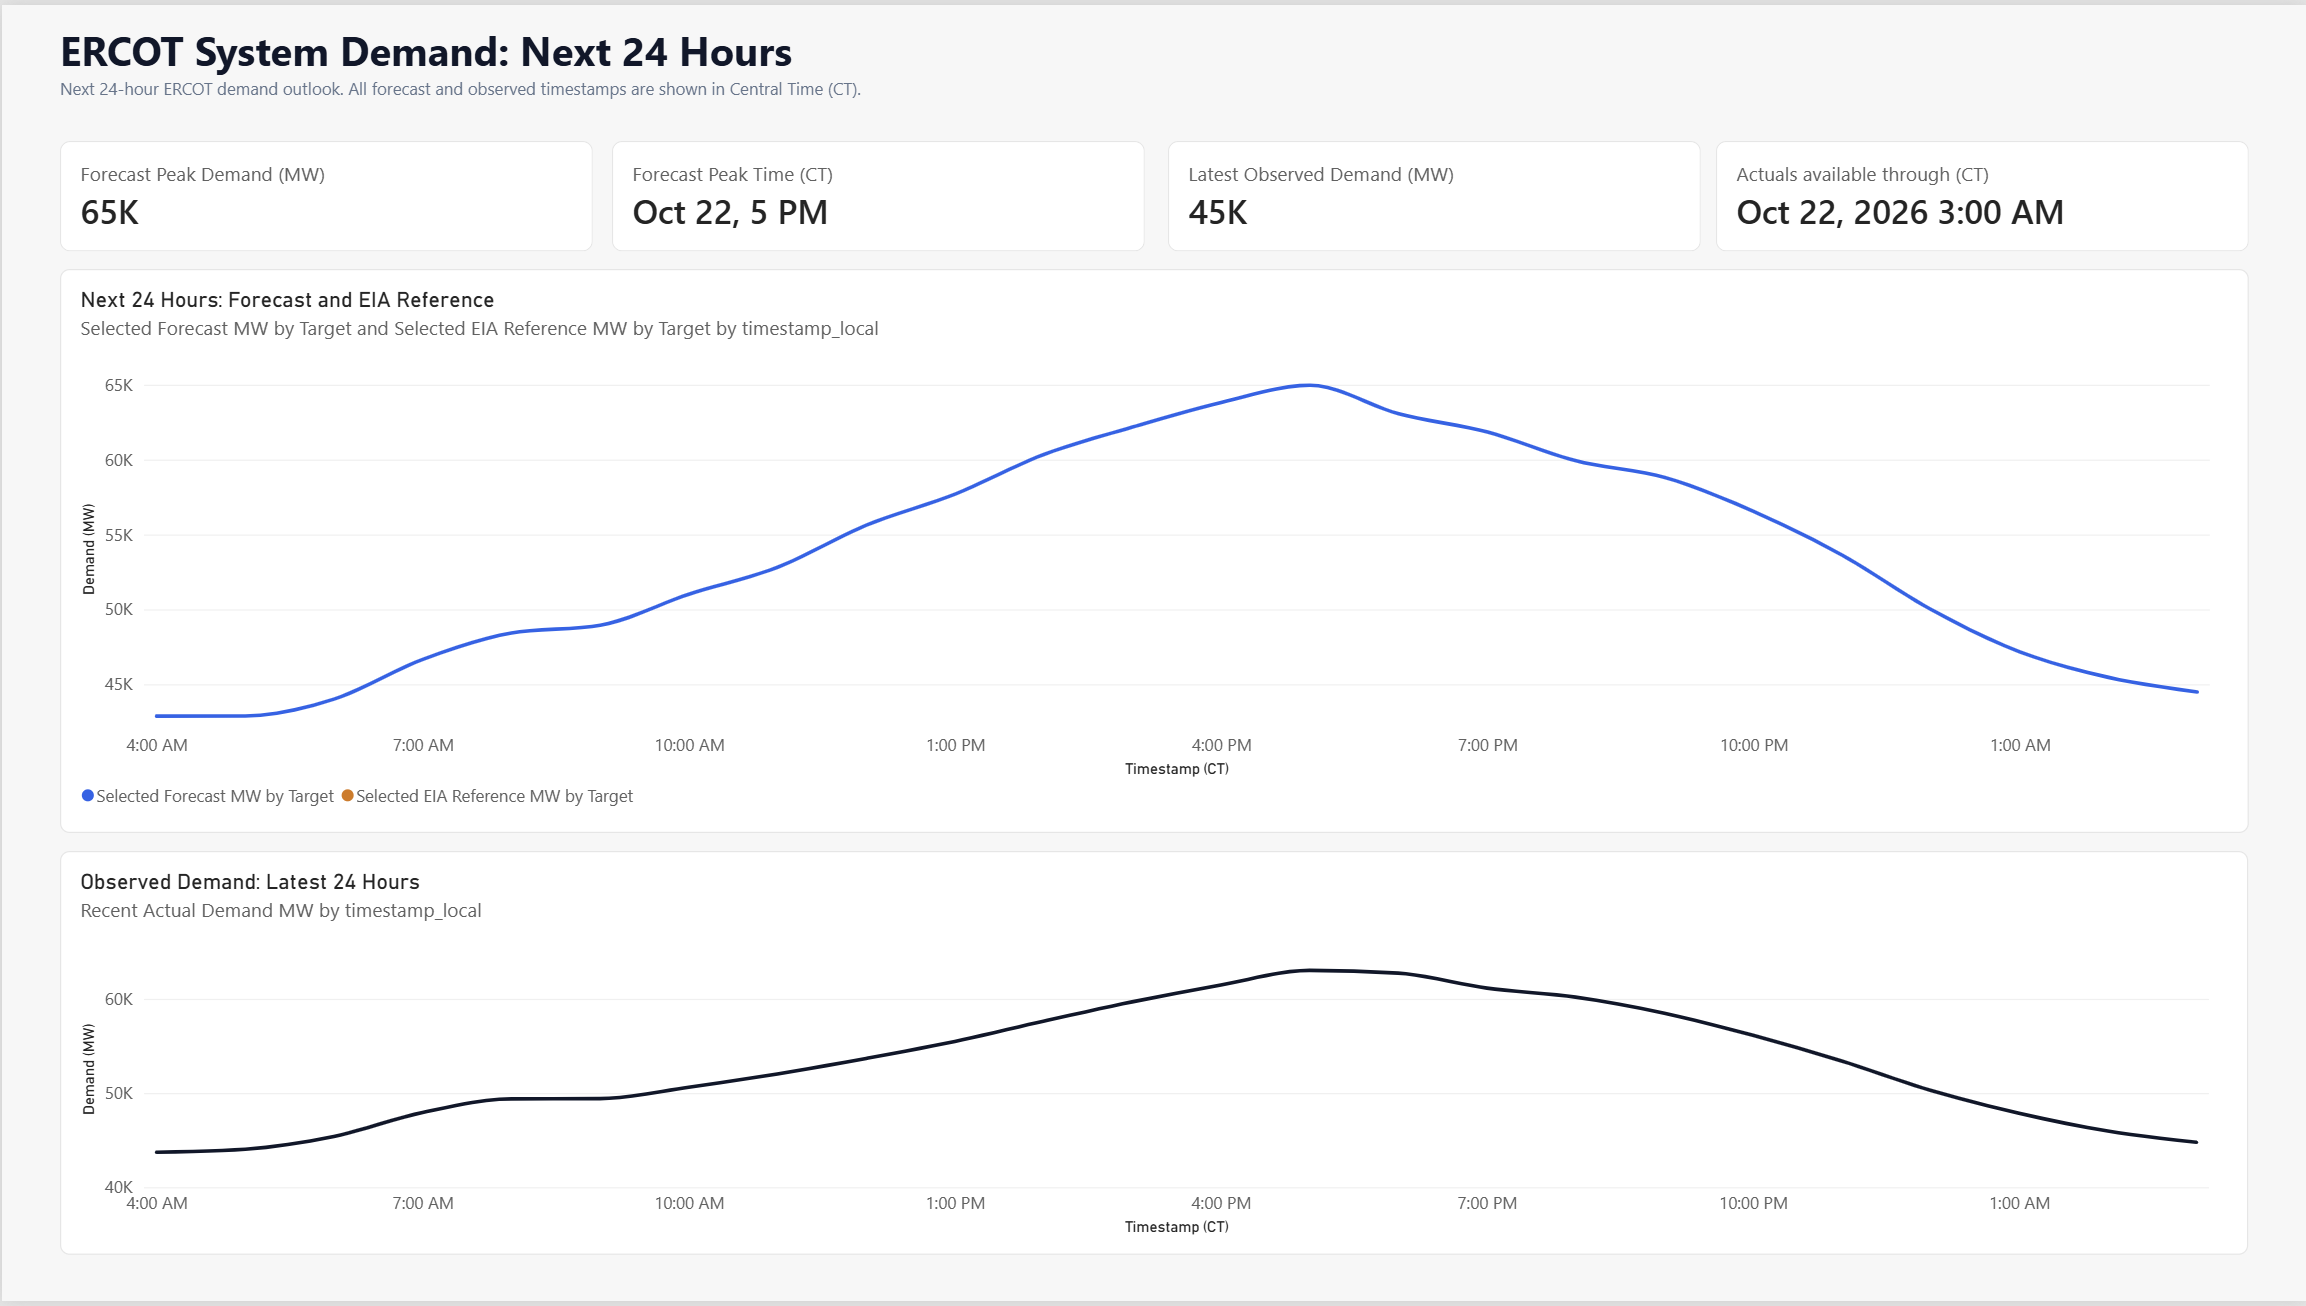
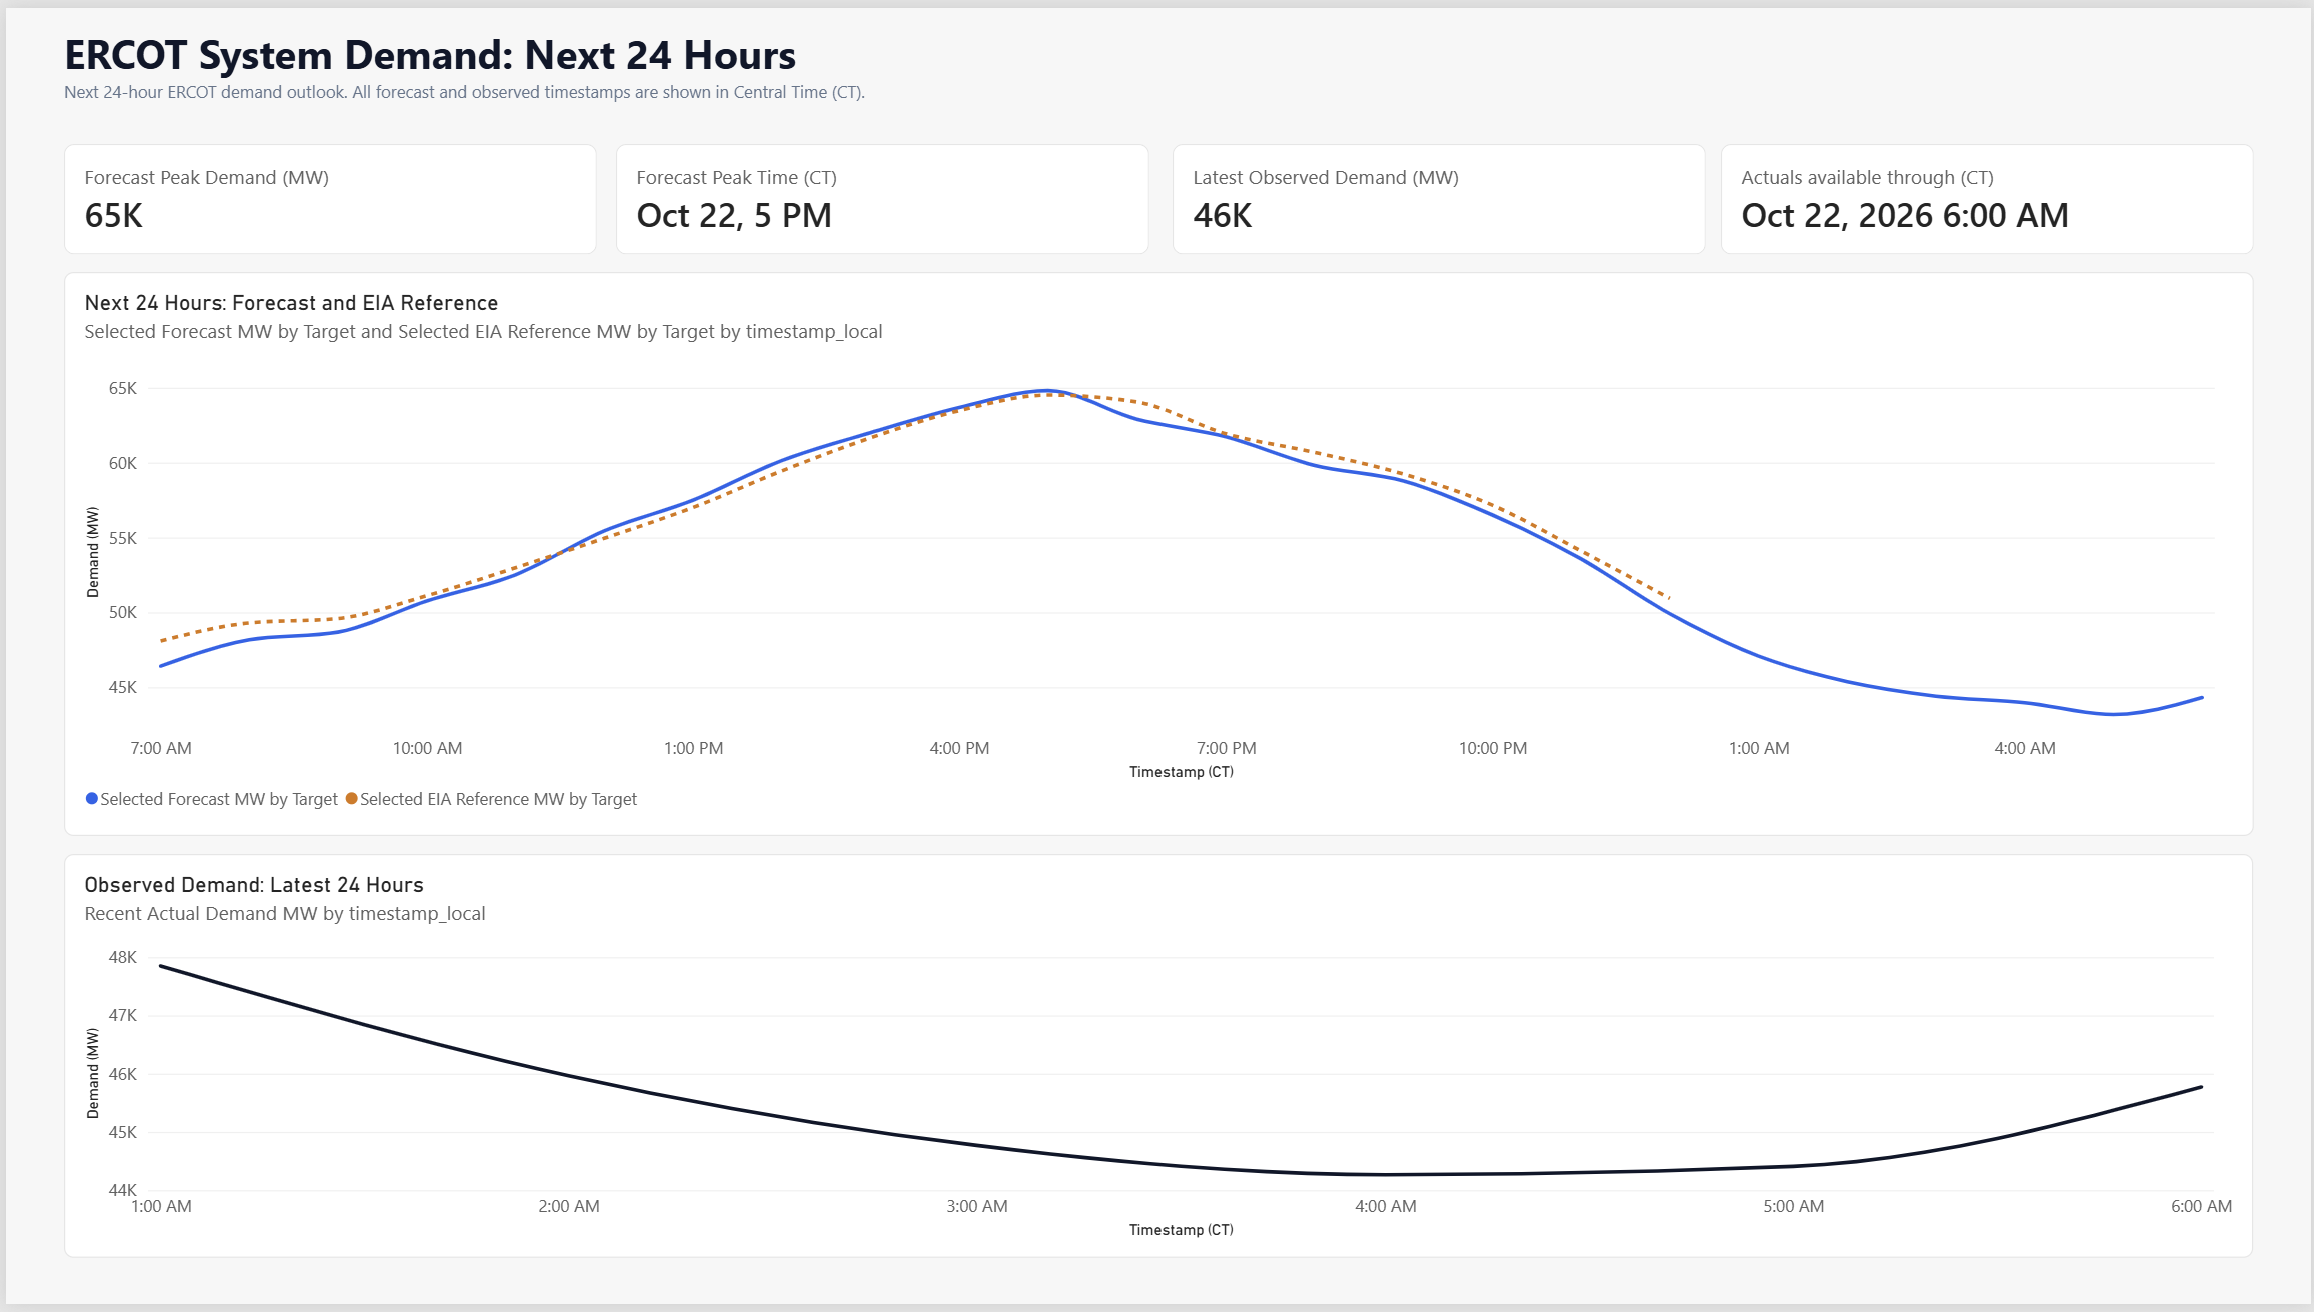
Readme

diff --git a/README.md b/README.md
@@ -20,7 +20,7 @@ The report is designed to move from the current system outlook to historical con
 
 The current system outlook, forecast peak and timing, latest observed demand, and the available EIA reference.
 
-![Executive Forecast](image.png)
+(![Executive Forecast](image.png))
 
 ### Historical Demand and Benchmarks
 
